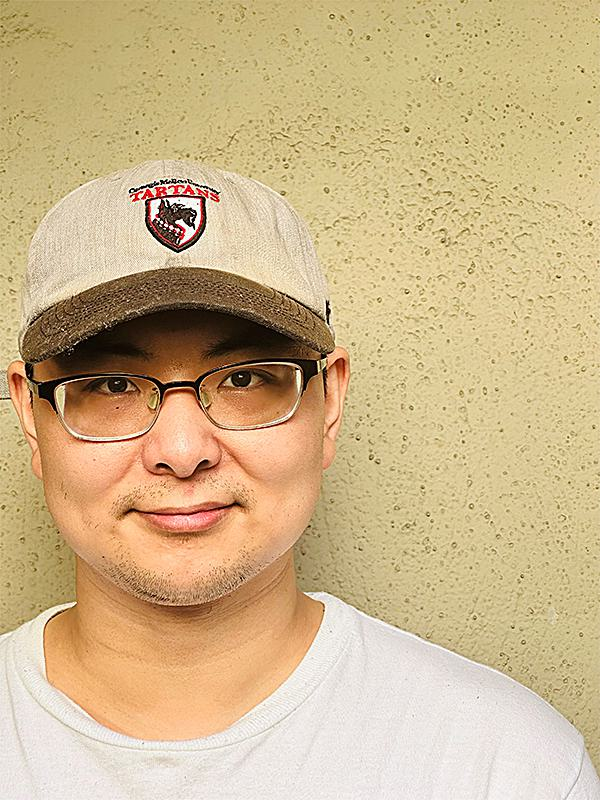
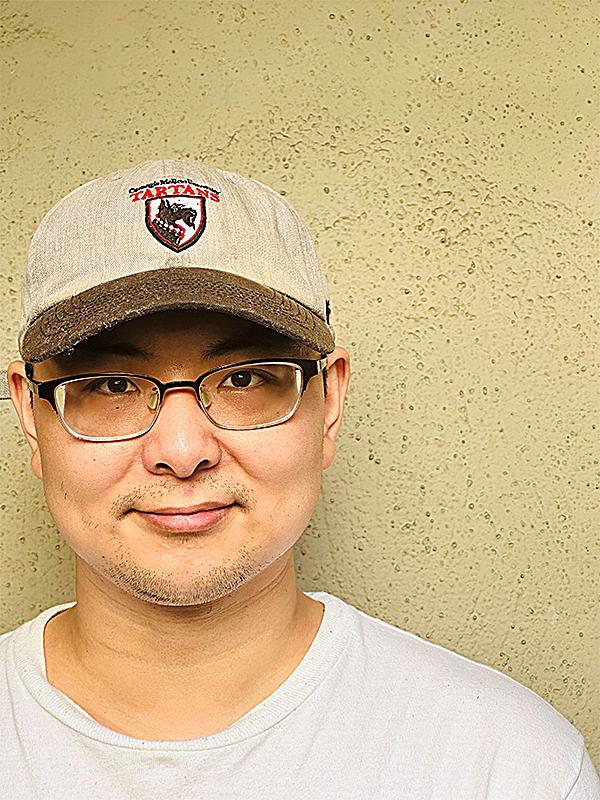
Quartz sync: Sep 29, 2025, 2:05 AM

diff --git a/content/Project2.md b/content/Project2.md
@@ -205,9 +205,25 @@ I also demonstrated the mathematical principle that convolution is associative b
 # Part 2: Fun with Frequencies
 ## Part 2.1: Image "Sharpening"
 
-In this section, I implemented the unsharp masking technique to enhance image sharpness by amplifying high-frequency details. My approach was based on the principle that subtracting a blurred version of an image from itself isolates the high-frequency components, which can then be added back to the original image with increased amplitude. I used the formula `sharpened = original + α × (original - blurred)` where α controls the strength of the sharpening effect.
+In this section, I implemented the unsharp masking technique to enhance image sharpness by amplifying high-frequency details. My approach was based on the principle that subtracting a blurred version of an image from itself isolates the high-frequency components, which can then be added back to the original image with increased amplitude. 
 
-The implementation involved experimenting with different Gaussian blur sigma values to control which frequencies are considered "high frequency" and testing various alpha multipliers to achieve the desired level of enhancement without introducing artifacts. I discovered that moderate alpha values (typically 0.5-2.0) provided pleasing enhancement while higher values could create unrealistic over-sharpening or ringing artifacts around edges. To validate the technique's effectiveness, I also tested it on intentionally blurred images to demonstrate that sharpening could partially recover lost detail, though it cannot fully restore information that was eliminated by the original blurring process.
+$$\text{High Frequency = Original - Low Frequency}$$
+
+Then I used the formula 
+
+$$\text{sharpened = original + } \alpha \times \text{(original - blurred)}$$
+
+where $\alpha$ controls the strength of the sharpening effect.
+
+The implementation has 3 steps:
+- Get low frequency image:
+	- I create a function that passes an image and an abstract $\sigma$ as the parameters. Then through the rule of thumb from the lecture `kernel size = 6 * sigma + 1` and `create_gaussian_kernel(kernel_size1, sigma1)` from Part 1, I can get a Gaussian kernel and convolve it with the image to get the target low frequency version.
+- Get high frequency image.
+	- The high frequency image can be obtained by subtracting a Gaussian-blurred version from the original image: $\text{High Frequency = Original - Low Frequency}$.
+- Sharpen the image.
+	- Add amplified high frequencies back to original using $\text{sharpened = original + } \alpha \times \text{(original - blurred)}$
+
+The implementation involved experimenting with different alpha multipliers to achieve the desired level of enhancement without introducing artifacts. I discovered that moderate alpha values (typically 0.5-2.0) provided pleasing enhancement while higher values could create unrealistic over-sharpening or ringing artifacts around edges. To validate the technique's effectiveness, I also tested it on intentionally blurred images to demonstrate that sharpening could partially recover lost detail, though it cannot fully restore information that was eliminated by the original blurring process.
 
 <div style="display: grid; grid-template-columns: repeat(auto-fit, minmax(250px, 1fr)); gap: 15px; text-align: center;">
   <figure style="margin: 0;">
@@ -220,14 +236,14 @@ The implementation involved experimenting with different Gaussian blur sigma val
   <figure style="margin: 0;">
     <img src="/P2/P5_blur.jpg" alt="Image 3" style="width: 100%; height: auto; display: block;" />
     <figcaption style="font-size: 0.9em; color: gray; margin-top: 6px; line-height: 1.4;">
-    Blurred
+    Blurred with sigma = 2.0
     </figcaption>
   </figure>
 
   <figure style="margin: 0;">
     <img src="/P2/P5_s.jpg" alt="Image 3" style="width: 100%; height: auto; display: block;" />
     <figcaption style="font-size: 0.9em; color: gray; margin-top: 6px; line-height: 1.4;">
-    Sharpened
+    Sharpened with alpha = 1.5
     </figcaption>
   </figure>
 </div>
@@ -244,14 +260,14 @@ The implementation involved experimenting with different Gaussian blur sigma val
   <figure style="margin: 0;">
     <img src="/P2/P6_o.jpg" alt="Image 3" style="width: 100%; height: auto; display: block;" />
     <figcaption style="font-size: 0.9em; color: gray; margin-top: 6px; line-height: 1.4;">
-    Blurred
+    Blurred with sigma = 2.0
     </figcaption>
   </figure>
 
   <figure style="margin: 0;">
     <img src="/P2/P6_s.jpg" alt="Image 3" style="width: 100%; height: auto; display: block;" />
     <figcaption style="font-size: 0.9em; color: gray; margin-top: 6px; line-height: 1.4;">
-    Sharpened
+    Sharpened with alpha = 1.5
     </figcaption>
   </figure>
 </div>
@@ -341,7 +357,6 @@ Here are some other hybrid images I tested.
   <figure style="margin: 0;">
     <img src="/P2/P7_44.jpg" alt="Image 3" style="width: 100%; height: auto; display: block;" />
     <figcaption style="font-size: 0.9em; color: gray; margin-top: 6px; line-height: 1.4;">
-	    The hybrid Image of the samples
     </figcaption>
   </figure>
 </div>